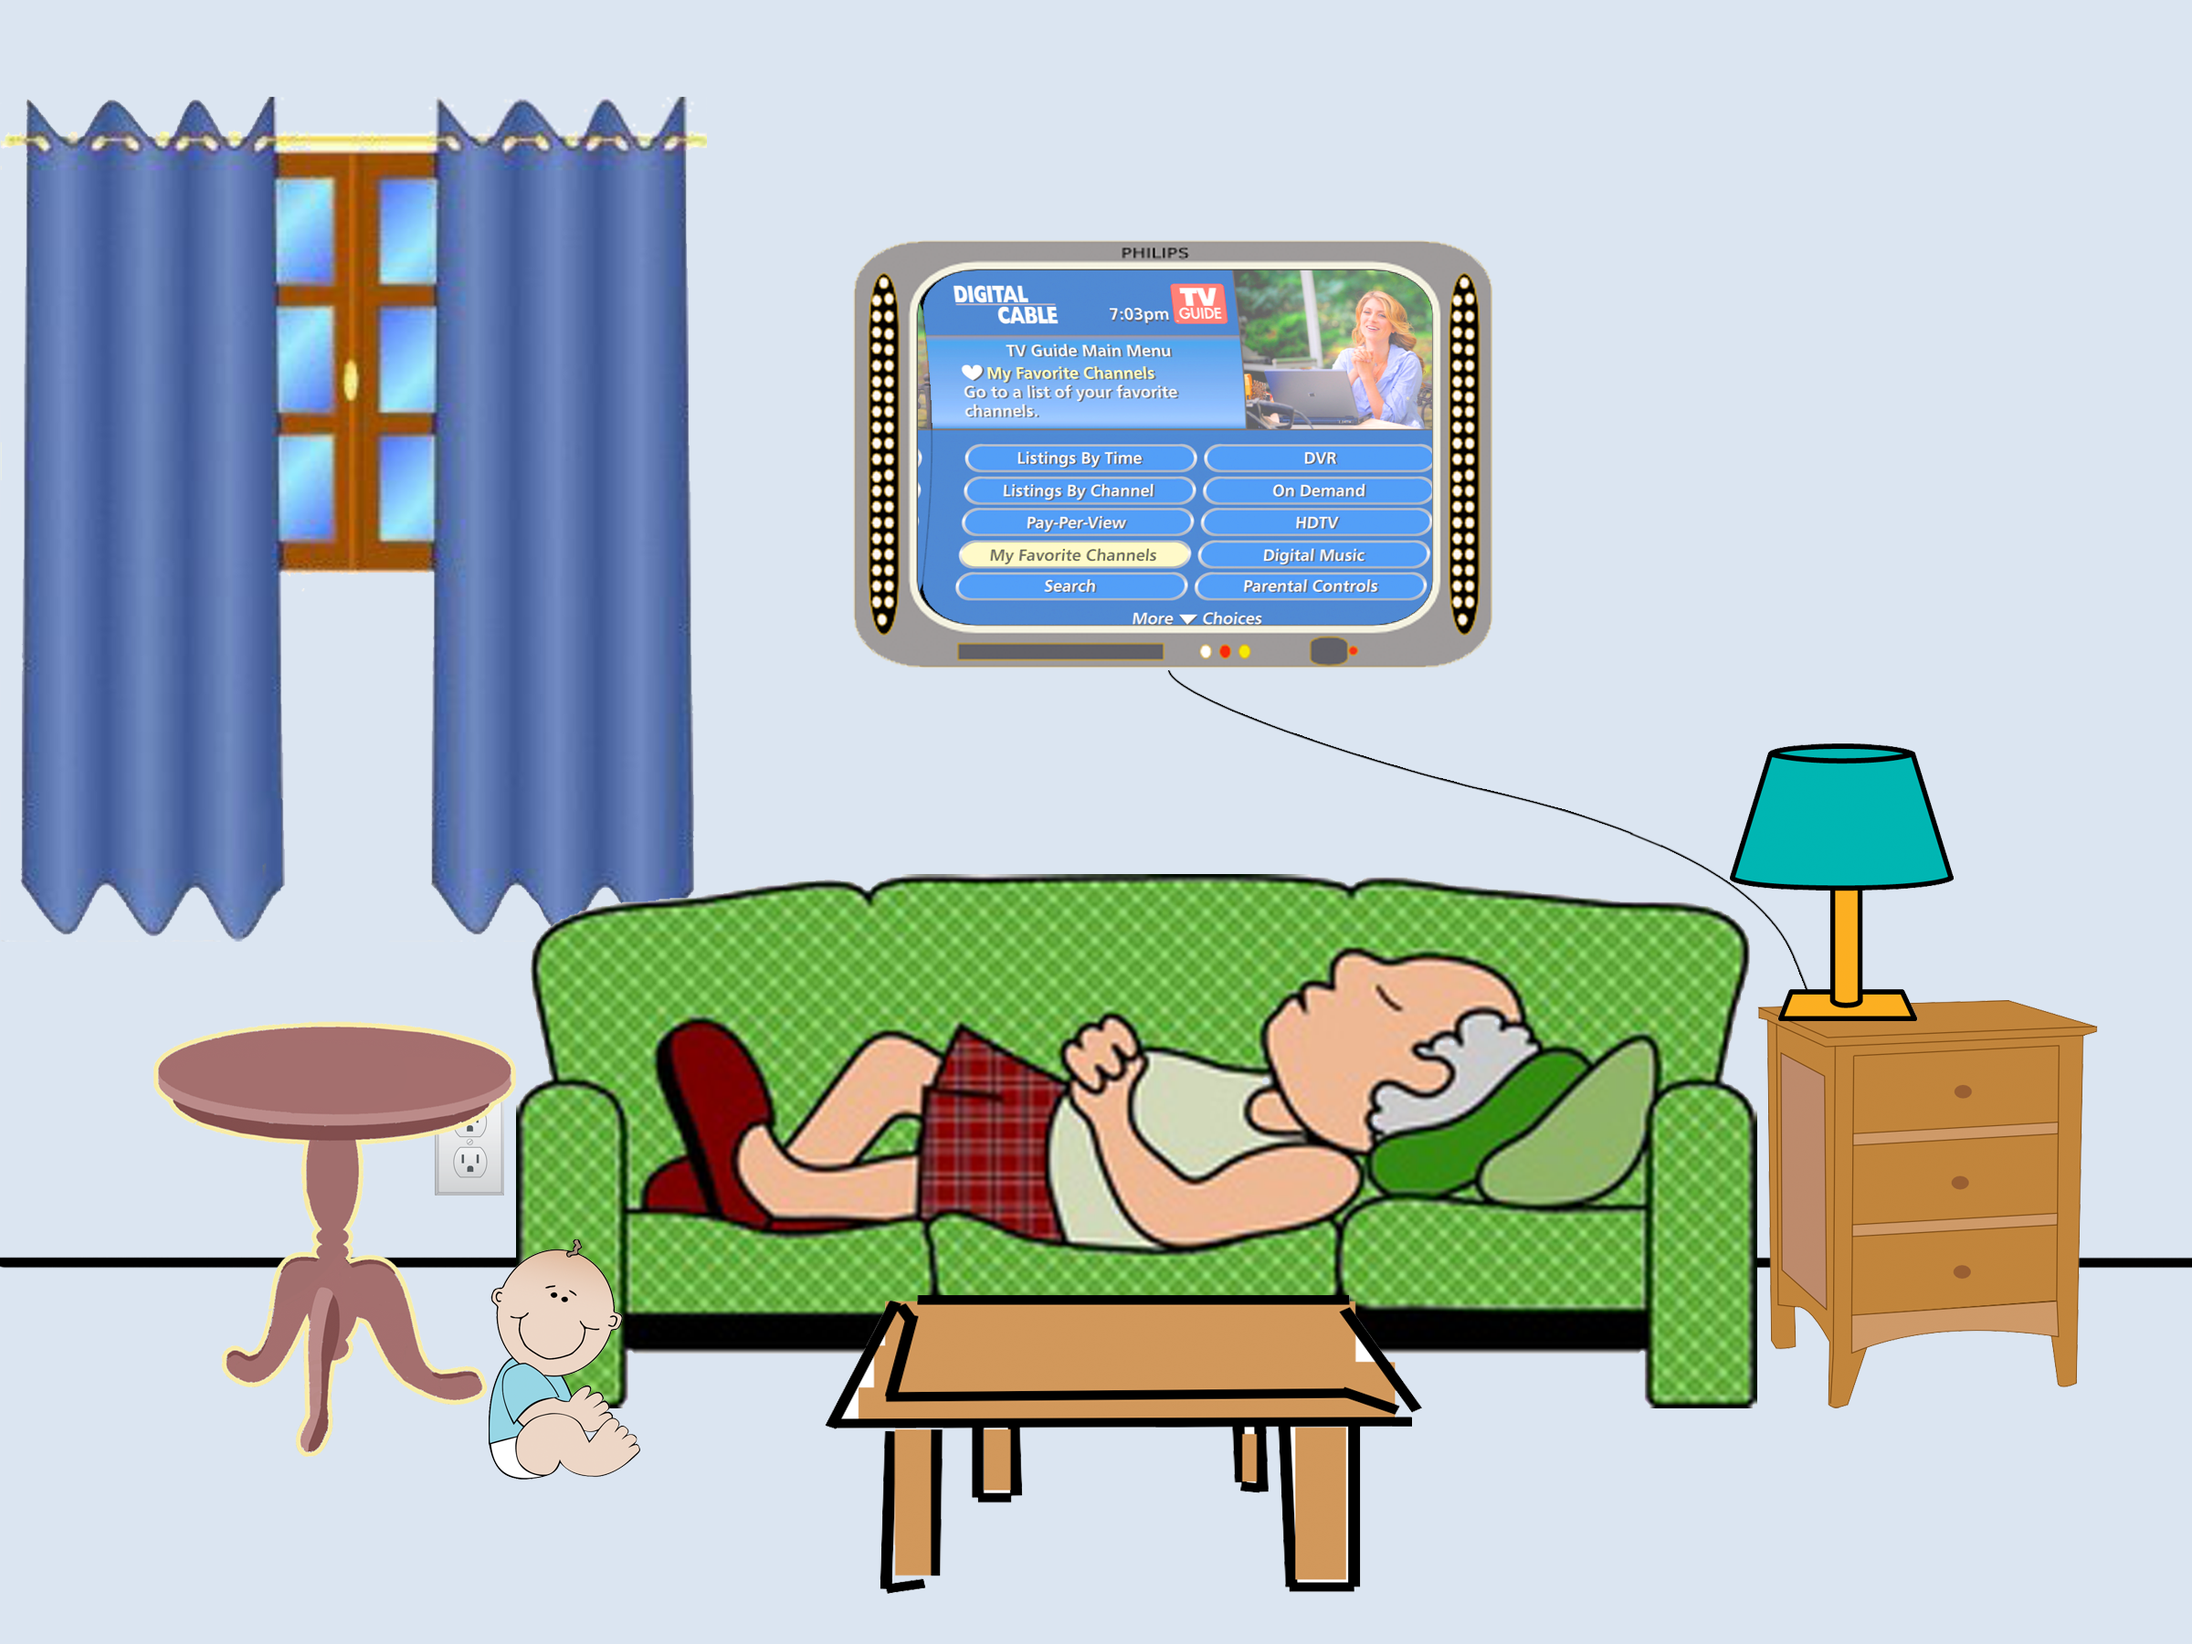
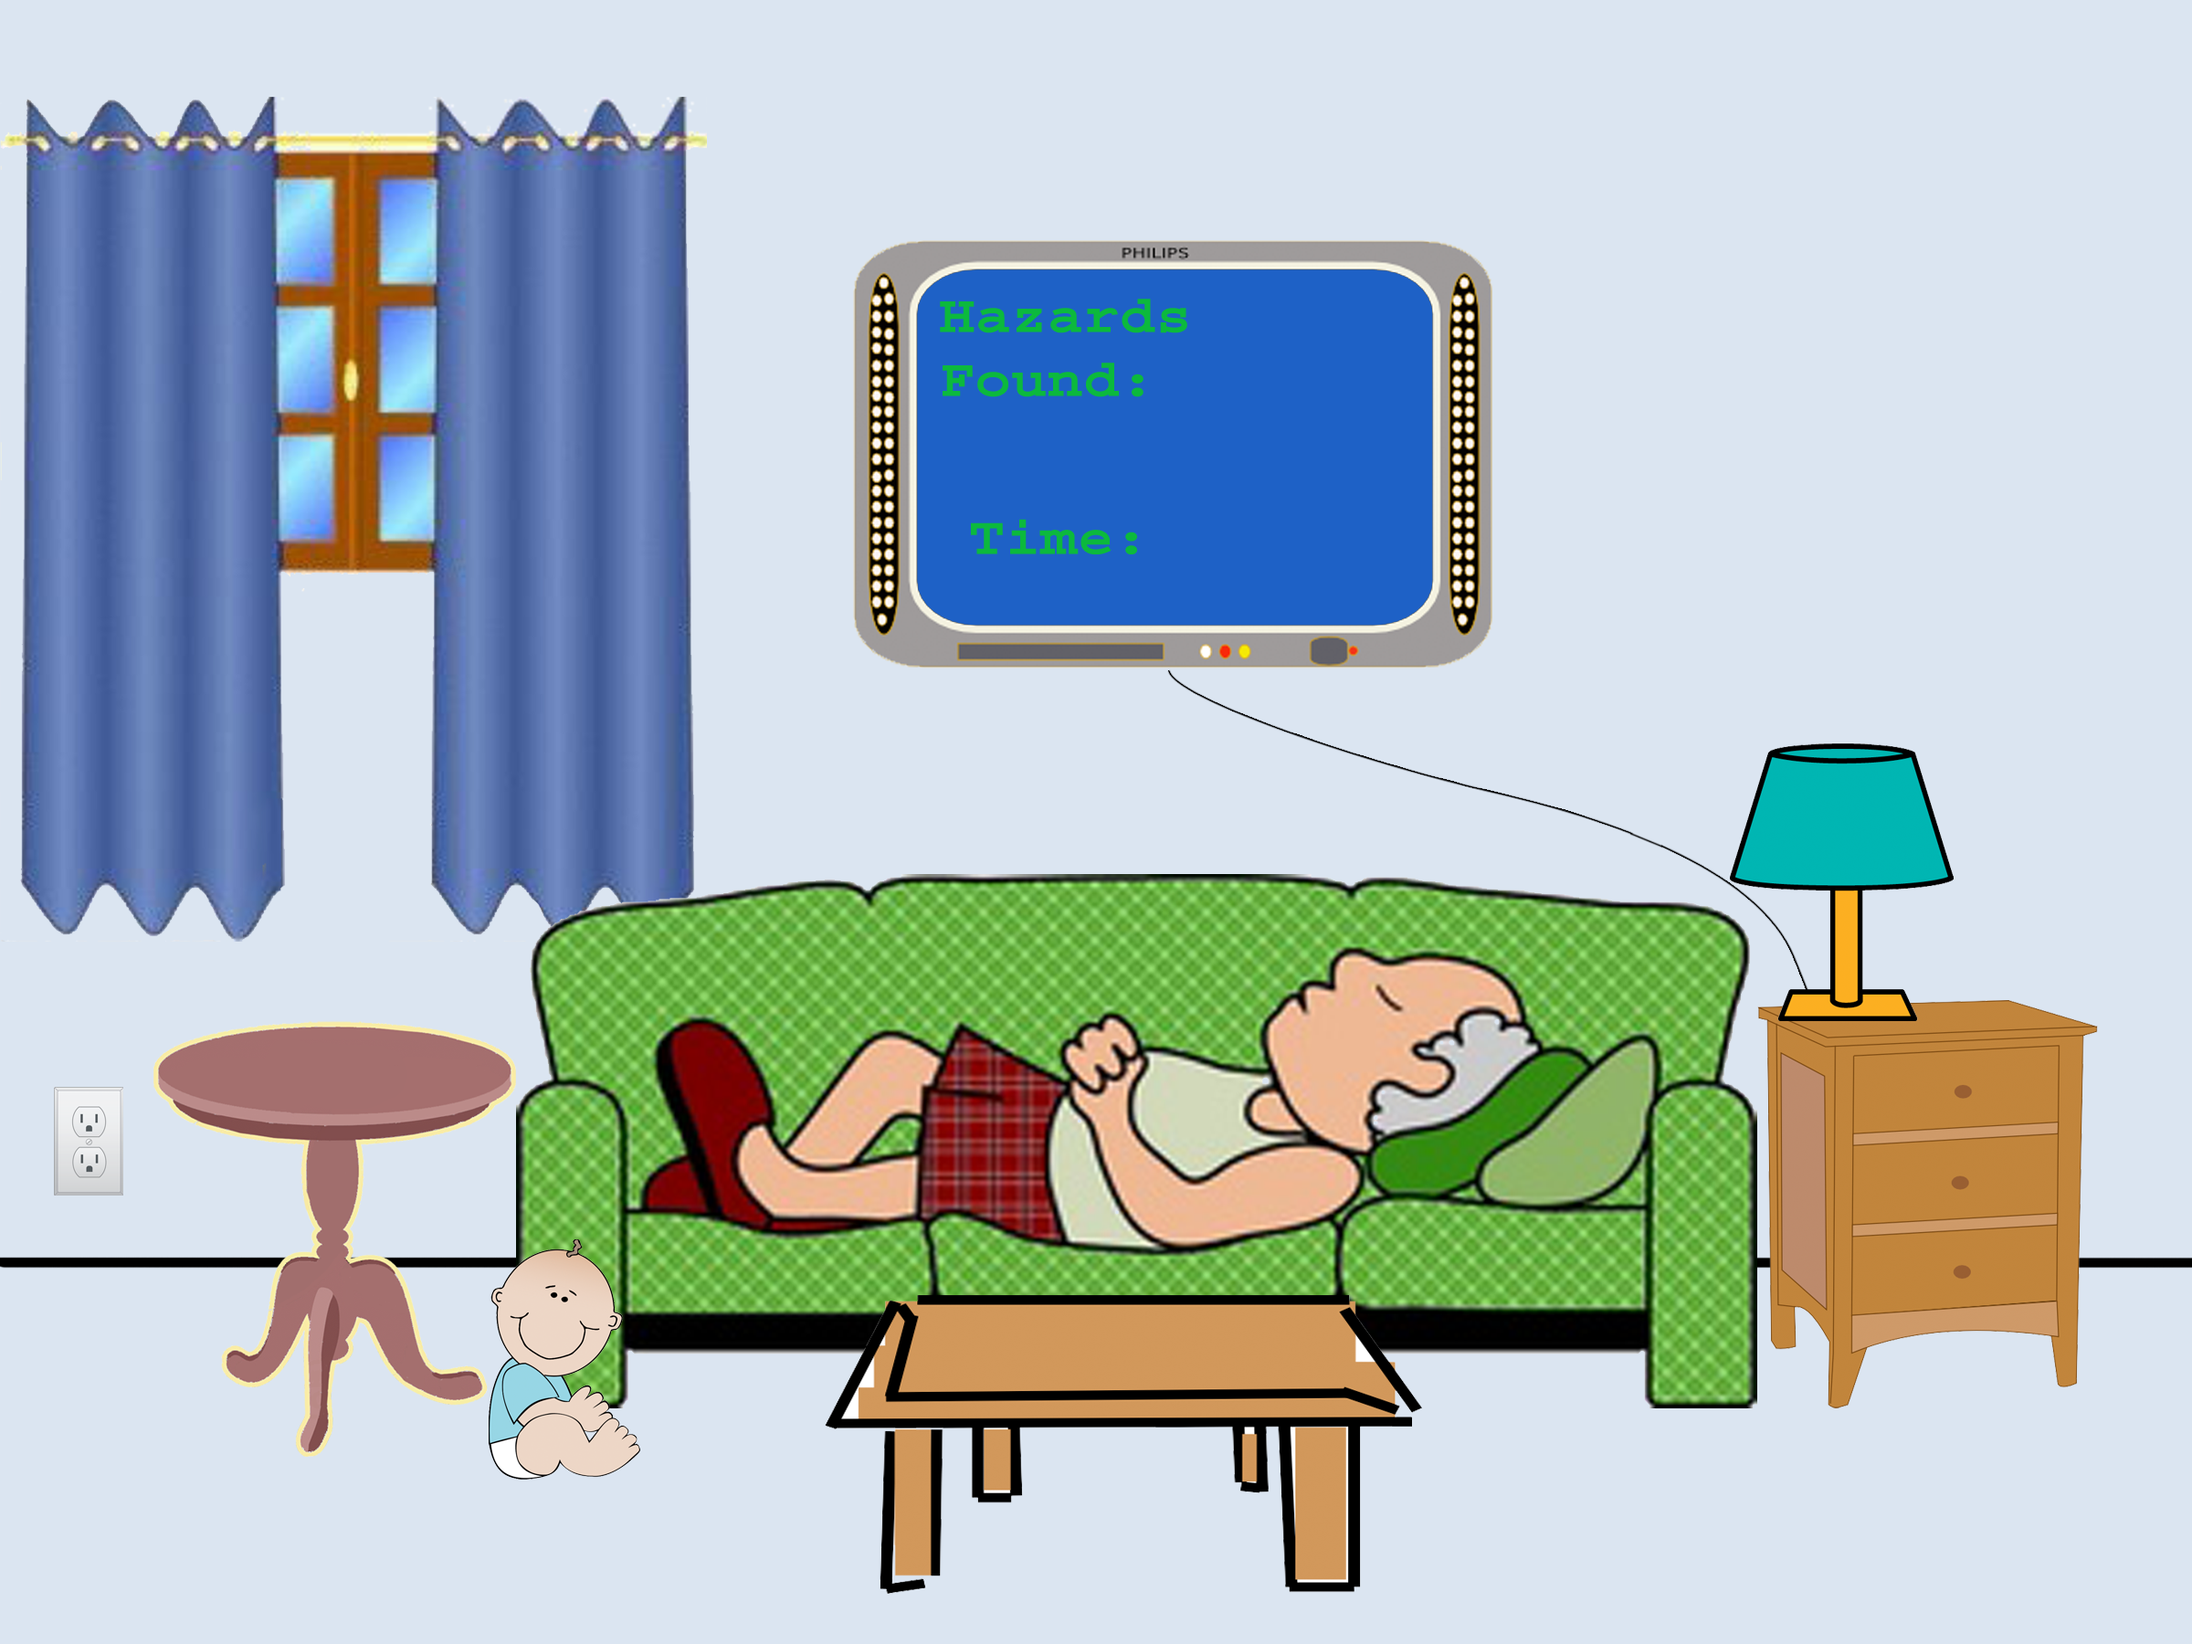
changed the outlet to the other side of the table and counter to be on the tv

Changed region(s): [[0.4062, 0.1556, 0.6562, 0.4044], [0.0312, 0.6533, 0.0625, 0.7467], [0.1875, 0.6844, 0.2188, 0.7467]]

diff --git a/585burnsafety_2/LivingRoomImages/stylesheets/index.css b/585burnsafety_2/LivingRoomImages/stylesheets/index.css
@@ -22,10 +22,13 @@ h1 {
 
 #counter {
 	position: fixed;
-	background-color: black;
+	background-color: transparent;
 	width: 15%;
 	height: 9%;
-	font-size: 1.1vw;
+	left: 51%;
+	top: 17%;
+	font-size: 3.5vw;
+	color: rgb(12,185,61);
 	text-align: center;
 }
 
@@ -87,10 +90,10 @@ h1 {
 
 #outletCover {
 	position: fixed;
-	left: 20.7%;
-	top: 66.05%;
-	width: 3%;
-	height: 7.5%;
+	left: 4.20%;
+	top: 66.7%;
+	width: 2%;
+	height: 5.2%;
 	opacity: 0;
 }
 

diff --git a/585burnsafety_2/LivingRoomImages/index.html b/585burnsafety_2/LivingRoomImages/index.html
@@ -23,7 +23,7 @@
 	<img src="images/background.png" class="background-img">
 	<div class="container-fluid">
 		<div id="counter">
-			<h1> Number of Hazards Found: 0 </h1>
+			0
 		</div>
 		<img src="images/ashTray.png" id="ashTray" class="goodClick">
 		<img src="images/brokenSmokeDetector.png" id="brokenSD" class="goodClick">

diff --git a/585burnsafety_2/LivingRoomImages/index.js b/585burnsafety_2/LivingRoomImages/index.js
@@ -48,7 +48,7 @@ $(document).ready(function () {
 
 var incrementCnt = function(){
   hazardsFound++;
-  $("#counter > h1").html("Number of Hazards Found: " + hazardsFound);
+  $("#counter").html(hazardsFound);
   if(hazardsFound==10){
     $("#levelWin").css('visibility', 'visible');
   }
